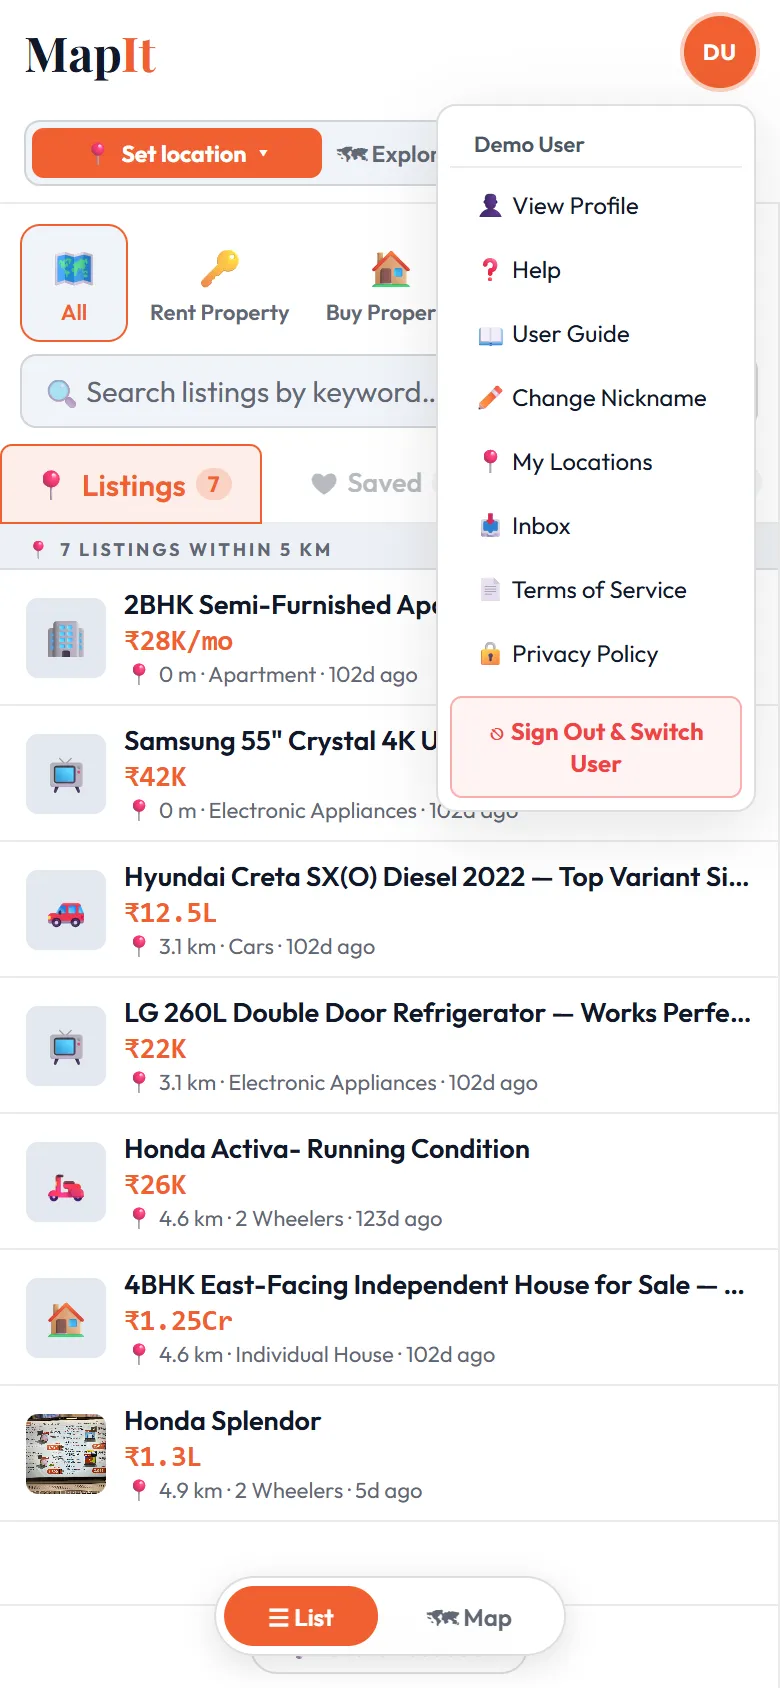
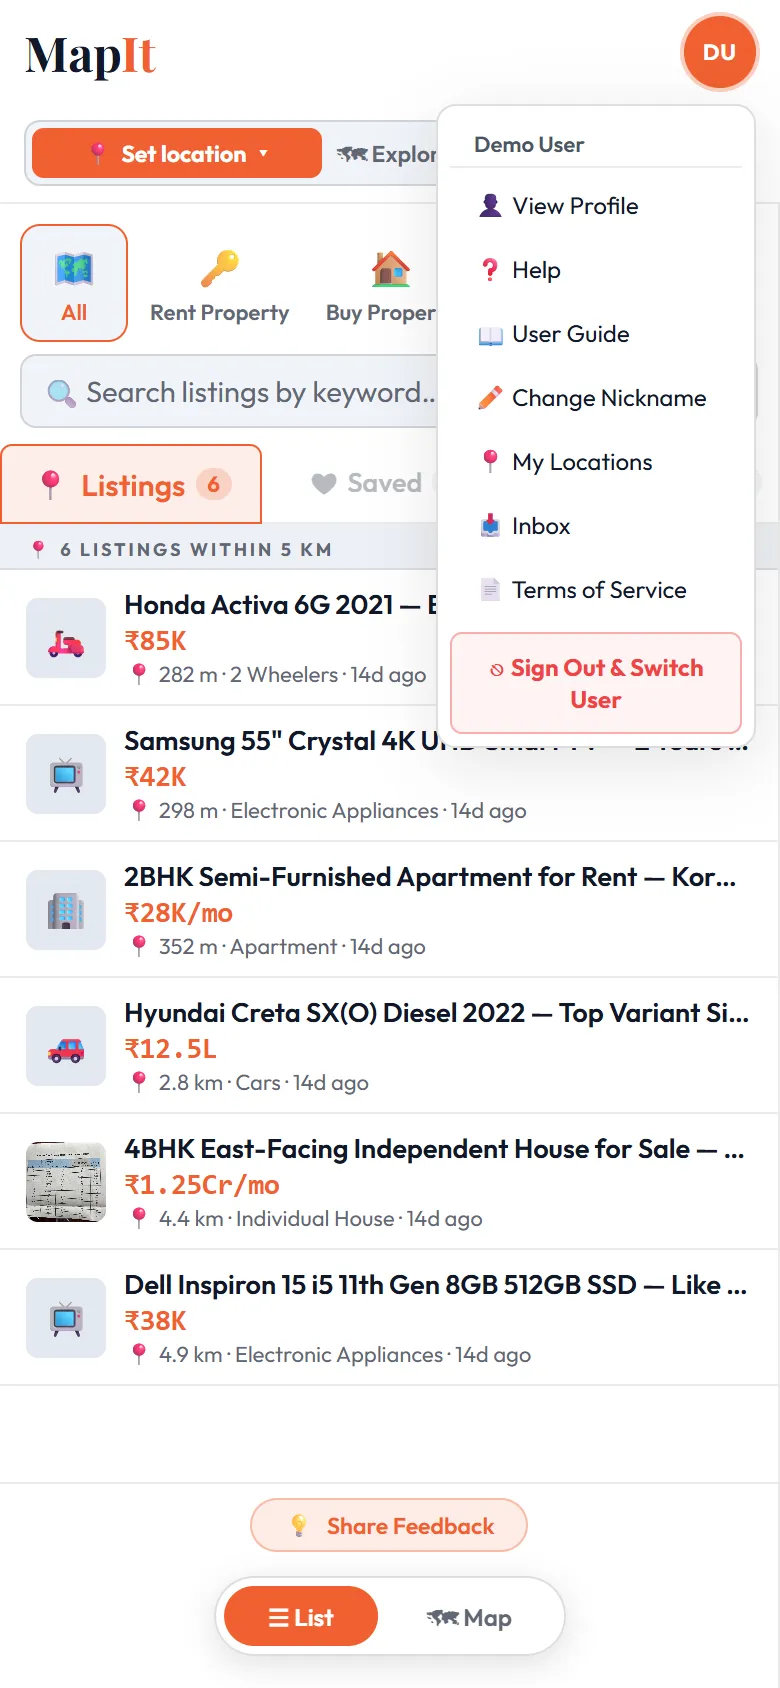
docs(legal): one-page Terms without drafting notes; app links to Terms only
Arun's review (2026-10-24): removed 'finalized by Nagesh & Arun', the
version/prepared lines (header, footer, tab title) and the left
navigation panel; operator name in plain text (was draft placeholder
styling). Kept a 'Last updated 17 October 2026' line (Privacy section
promises notice of changes) and all legal text, Privacy Policy as
Part II. Added the favicon. App: avatar menu shows Terms of Service
only; sign-up consent 'Terms of Service, including the Privacy Policy'
(one link). /privacy still redirects to Part II for external
references (Google consent screen, WhatsApp profile). User Guide text +
legal screenshot updated.

diff --git a/docs/legal/terms-privacy-draft2.html b/docs/legal/terms-privacy-draft2.html
@@ -2,8 +2,10 @@
 <html lang="en">
 <head>
 <meta charset="utf-8" />
-<title>MapIt — Terms of Service &amp; Privacy Policy (v1.2)</title>
+<title>MapIt — Terms of Service &amp; Privacy Policy</title>
 <meta name="viewport" content="width=device-width, initial-scale=1" />
+<link rel="icon" href="/favicon.svg" type="image/svg+xml" />
+<link rel="icon" href="/favicon-32.png" sizes="32x32" type="image/png" />
 <style>
   :root{
     --paper:#faf7f1;
@@ -76,8 +78,7 @@
     margin:0 auto;
     padding:0 24px 96px;
     display:grid;
-    grid-template-columns:240px minmax(0,760px);
-    gap:56px;
+    grid-template-columns:minmax(0,760px);   /* one column — no side navigation (Arun, 2026-10-24) */
     justify-content:center;
   }
   @media (max-width:900px){
@@ -328,68 +329,19 @@
   <div class="cover">
     <div class="wordmark">Map<span>It</span></div>
     <h1 class="doc-title">Terms of Service &amp; Privacy Policy</h1>
-    <p class="doc-sub">Terms of Service &amp; Privacy Policy, finalized by Nagesh &amp; Arun ahead of the Bengaluru MVP launch.</p>
     <div class="meta-row">
-      <span><b>Version</b> 1.2</span>
-      <span><b>Prepared</b> 2026-07-13, finalized 2026-07-21, updated 2026-10-09 (operator name), 2026-10-17 (approximate listing location, listing retention, service providers)</span>
+      <span><b>Last updated</b> 17 October 2026</span>
       <span><b>Jurisdiction</b> Karnataka, India</span>
     </div>
   </div>
 
-  <!-- ============================================================ -->
-  <nav class="toc" aria-label="Table of contents">
-    <h3>Part I — Terms of Service</h3>
-    <ol>
-      <li><a href="#t1">Acceptance of Terms</a></li>
-      <li><a href="#t2">Eligibility</a></li>
-      <li><a href="#t3">Nature of the Service</a></li>
-      <li><a href="#t4">Account Registration &amp; Security</a></li>
-      <li><a href="#t5">Your Listings &amp; Content License</a></li>
-      <li><a href="#t6">Location &amp; GPS Data — Special Notice</a></li>
-      <li><a href="#t7">Prohibited Listings &amp; Conduct</a></li>
-      <li><a href="#t8">Real Estate Listings</a></li>
-      <li><a href="#t9">Vehicle Listings</a></li>
-      <li><a href="#t10">Messaging Between Users</a></li>
-      <li><a href="#t11">Fees</a></li>
-      <li><a href="#t12">Feedback &amp; Ratings</a></li>
-      <li><a href="#t13">Intellectual Property</a></li>
-      <li><a href="#t14">Third-Party Services</a></li>
-      <li><a href="#t15">Disclaimer of Warranties</a></li>
-      <li><a href="#t16">Limitation of Liability</a></li>
-      <li><a href="#t17">User Responsibility for Listings &amp; Conduct</a></li>
-      <li><a href="#t18">Suspension &amp; Termination</a></li>
-      <li><a href="#t19">Grievance Officer</a></li>
-      <li><a href="#t20">Governing Law &amp; Jurisdiction</a></li>
-      <li><a href="#t21">Dispute Resolution</a></li>
-      <li><a href="#t22">Changes to these Terms</a></li>
-      <li><a href="#t23">General Provisions</a></li>
-    </ol>
-    <h3 class="part2">Part II — Privacy Policy</h3>
-    <ol>
-      <li><a href="#p1">Introduction &amp; Scope</a></li>
-      <li><a href="#p2">Who We Are</a></li>
-      <li><a href="#p3">Information We Collect</a></li>
-      <li><a href="#p4">How We Use Information</a></li>
-      <li><a href="#p5">Legal Basis for Processing</a></li>
-      <li><a href="#p6">Location Data — Special Notice</a></li>
-      <li><a href="#p7">How We Share Information</a></li>
-      <li><a href="#p8">Cross-Border Transfer</a></li>
-      <li><a href="#p9">Data Retention</a></li>
-      <li><a href="#p10">Data Security</a></li>
-      <li><a href="#p11">Your Rights</a></li>
-      <li><a href="#p12">Children's Privacy</a></li>
-      <li><a href="#p13">Cookies &amp; Local Storage</a></li>
-      <li><a href="#p14">Changes to this Policy</a></li>
-      <li><a href="#p15">Grievance Officer &amp; Contact</a></li>
-    </ol>
-  </nav>
 
   <!-- ============================================================ -->
   <main>
 
     <p class="part-label">Part I</p>
     <h2 class="part-title">Terms of Service</h2>
-    <p class="part-intro">These Terms of Service ("Terms") govern access to and use of the MapIt platform, website, and related services (together, the "Service"), operated by <span class="fill">Nakshe Ventures, a partnership firm, trading as MapIt</span> ("MapIt", "we", "us"). By creating an account or using the Service you agree to be bound by these Terms.</p>
+    <p class="part-intro">These Terms of Service ("Terms") govern access to and use of the MapIt platform, website, and related services (together, the "Service"), operated by Nakshe Ventures, a partnership firm, trading as MapIt ("MapIt", "we", "us"). By creating an account or using the Service you agree to be bound by these Terms.</p>
 
     <section class="clause" id="t1">
       <h3><span class="num">1</span> Acceptance of Terms</h3>
@@ -694,7 +646,7 @@
 </div>
 
 <footer class="doc-footer">
-  MapIt — Terms of Service &amp; Privacy Policy v1.2, prepared 2026-07-13, finalized and approved by Arun 2026-07-21, v1.2 approved by Arun 2026-10-17.
+  MapIt — Terms of Service &amp; Privacy Policy · Last updated 17 October 2026
 </footer>
 </body>
 </html>

diff --git a/MapIt_MVP_v1.html b/MapIt_MVP_v1.html
@@ -979,7 +979,7 @@ html,body{height:100%;overflow:hidden;font-family:'Outfit',sans-serif;background
       </div>
       <div class="tos-row">
         <input type="checkbox" id="tosCheck" onchange="updateProfileContinueState()" style="margin-top:2px;accent-color:var(--orange);width:16px;height:16px;flex-shrink:0;cursor:pointer;"/>
-        <label for="tosCheck" style="font-size:12px;color:var(--muted);line-height:1.5;cursor:pointer;">I agree to the <a href="/terms" target="_blank" rel="noopener" onclick="event.stopPropagation()" style="color:var(--orange);font-weight:600;">Terms of Service</a> and <a href="/privacy" target="_blank" rel="noopener" onclick="event.stopPropagation()" style="color:var(--orange);font-weight:600;">Privacy Policy</a></label>
+        <label for="tosCheck" style="font-size:12px;color:var(--muted);line-height:1.5;cursor:pointer;">I agree to the <a href="/terms" target="_blank" rel="noopener" onclick="event.stopPropagation()" style="color:var(--orange);font-weight:600;">Terms of Service</a>, including the Privacy Policy</label>
       </div>
       <button class="modal-btn" id="profileContinueBtn" onclick="saveProfile()" disabled style="margin-top:14px;">
         <span>Continue →</span>
@@ -1294,7 +1294,6 @@ html,body{height:100%;overflow:hidden;font-family:'Outfit',sans-serif;background
       </div>
       <a class="uav-item hide" id="adminMenuItem" href="/admin" style="text-decoration:none;">🔐 Admin</a>
       <a class="uav-item" href="/terms" target="_blank" rel="noopener" style="text-decoration:none;">📄 Terms of Service</a>
-      <a class="uav-item" href="/privacy" target="_blank" rel="noopener" style="text-decoration:none;">🔒 Privacy Policy</a>
       <button class="uav-signout" onclick="logout()">⎋ Sign Out &amp; Switch User</button>
     </div>
   </div>

diff --git a/public/index.html b/public/index.html
@@ -979,7 +979,7 @@ html,body{height:100%;overflow:hidden;font-family:'Outfit',sans-serif;background
       </div>
       <div class="tos-row">
         <input type="checkbox" id="tosCheck" onchange="updateProfileContinueState()" style="margin-top:2px;accent-color:var(--orange);width:16px;height:16px;flex-shrink:0;cursor:pointer;"/>
-        <label for="tosCheck" style="font-size:12px;color:var(--muted);line-height:1.5;cursor:pointer;">I agree to the <a href="/terms" target="_blank" rel="noopener" onclick="event.stopPropagation()" style="color:var(--orange);font-weight:600;">Terms of Service</a> and <a href="/privacy" target="_blank" rel="noopener" onclick="event.stopPropagation()" style="color:var(--orange);font-weight:600;">Privacy Policy</a></label>
+        <label for="tosCheck" style="font-size:12px;color:var(--muted);line-height:1.5;cursor:pointer;">I agree to the <a href="/terms" target="_blank" rel="noopener" onclick="event.stopPropagation()" style="color:var(--orange);font-weight:600;">Terms of Service</a>, including the Privacy Policy</label>
       </div>
       <button class="modal-btn" id="profileContinueBtn" onclick="saveProfile()" disabled style="margin-top:14px;">
         <span>Continue →</span>
@@ -1294,7 +1294,6 @@ html,body{height:100%;overflow:hidden;font-family:'Outfit',sans-serif;background
       </div>
       <a class="uav-item hide" id="adminMenuItem" href="/admin" style="text-decoration:none;">🔐 Admin</a>
       <a class="uav-item" href="/terms" target="_blank" rel="noopener" style="text-decoration:none;">📄 Terms of Service</a>
-      <a class="uav-item" href="/privacy" target="_blank" rel="noopener" style="text-decoration:none;">🔒 Privacy Policy</a>
       <button class="uav-signout" onclick="logout()">⎋ Sign Out &amp; Switch User</button>
     </div>
   </div>

diff --git a/public/user-guide.html b/public/user-guide.html
@@ -318,9 +318,9 @@ const TOPICS = [
     ] },
 
   { id:'legal', ico:'📄', name:'Privacy & Terms', teaser:'What we collect, and your rights as a user.',
-    intro:'Our Terms of Service and Privacy Policy are shown when you sign up and are always in your profile menu.',
+    intro:'Our Terms of Service (with the Privacy Policy inside it) are shown when you sign up and are always in your profile menu.',
     steps:[
-      ['Find the links','<b>📄 Terms of Service</b> and <b>🔒 Privacy Policy</b> in the avatar menu.'],
+      ['Find the link','<b>📄 Terms of Service</b> in the avatar menu — one page, with the Privacy Policy in Part II.'],
       ['Know your rights','They explain what data we collect and how it’s used.'],
       ['Have a concern?','Contact our Grievance Officer at contact-us@mapit.co.in.']
     ] },

diff --git a/src/server.js b/src/server.js
@@ -207,6 +207,8 @@ app.get('/admin', (req, res) => {
 // finalized v1.0, approved by Arun 2026-07-21) — Part I is Terms, Part II is
 // Privacy. /privacy redirects to the same file's Privacy anchor (#p1) rather
 // than duplicating the document, so there's only one file to keep in sync.
+// The app links only to /terms (one page, Arun 2026-10-24); keep /privacy —
+// the Google OAuth consent screen and WhatsApp/MSG91 profiles may point to it.
 app.get('/terms', (req, res) => {
   res.sendFile(path.join(__dirname, '../docs/legal/terms-privacy-draft2.html'));
 });

diff --git a/public/guide/shots.js b/public/guide/shots.js
@@ -304,7 +304,7 @@ window.GUIDE_SHOTS = {
  "legal": {
   "w": 390,
   "h": 844,
-  "v": "muzviwmx",
+  "v": "mvm3q6ev",
   "marks": [
    {
     "n": 1,
